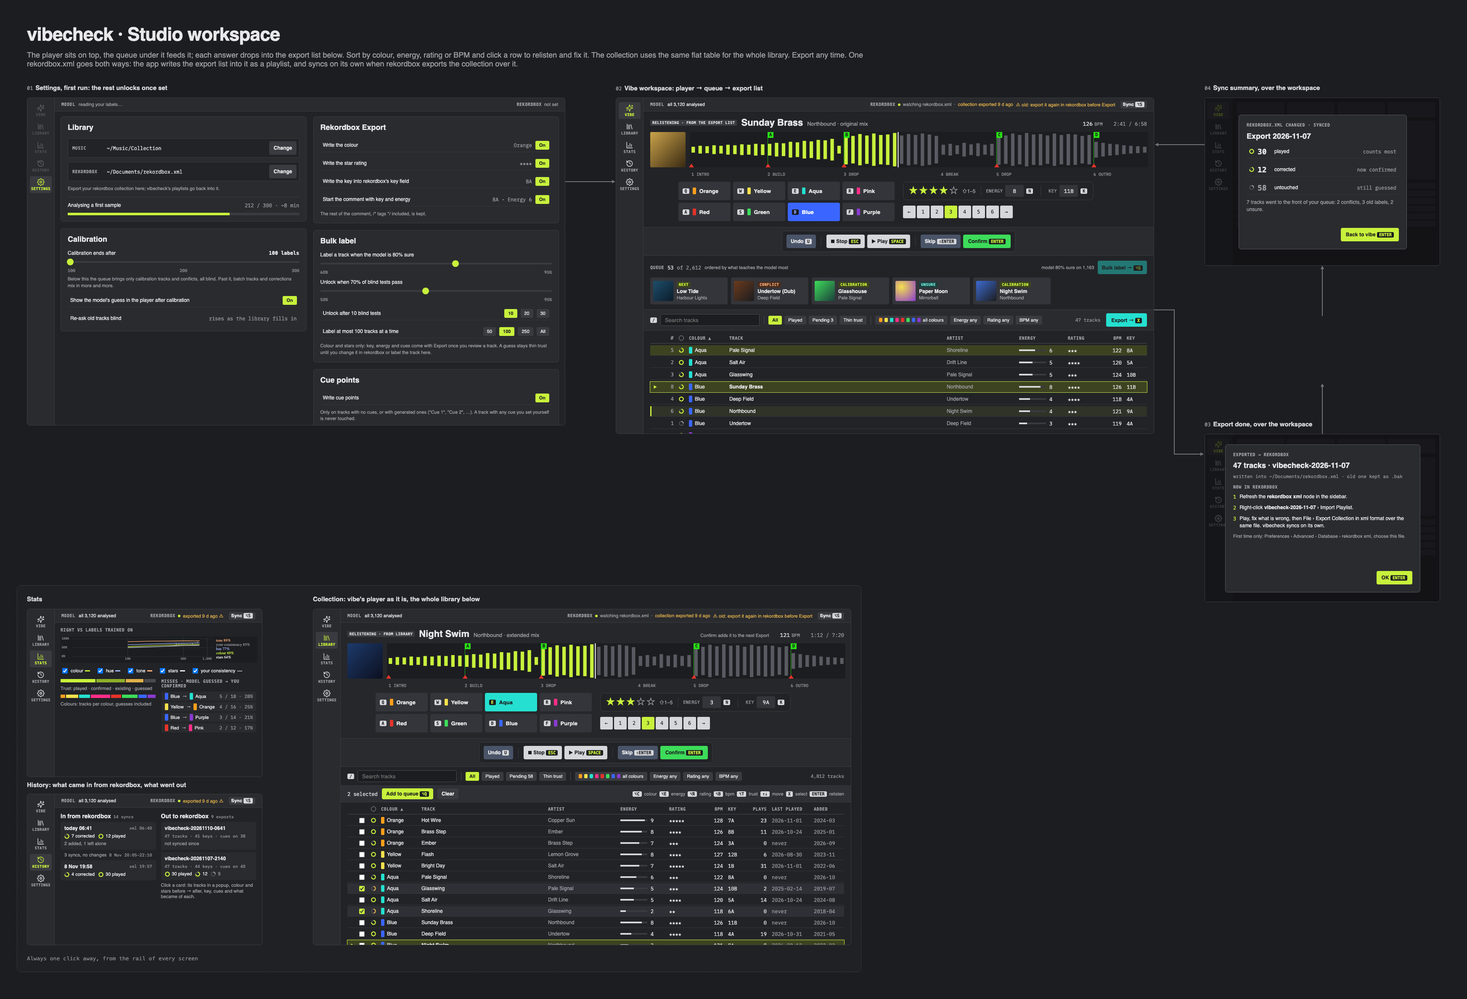
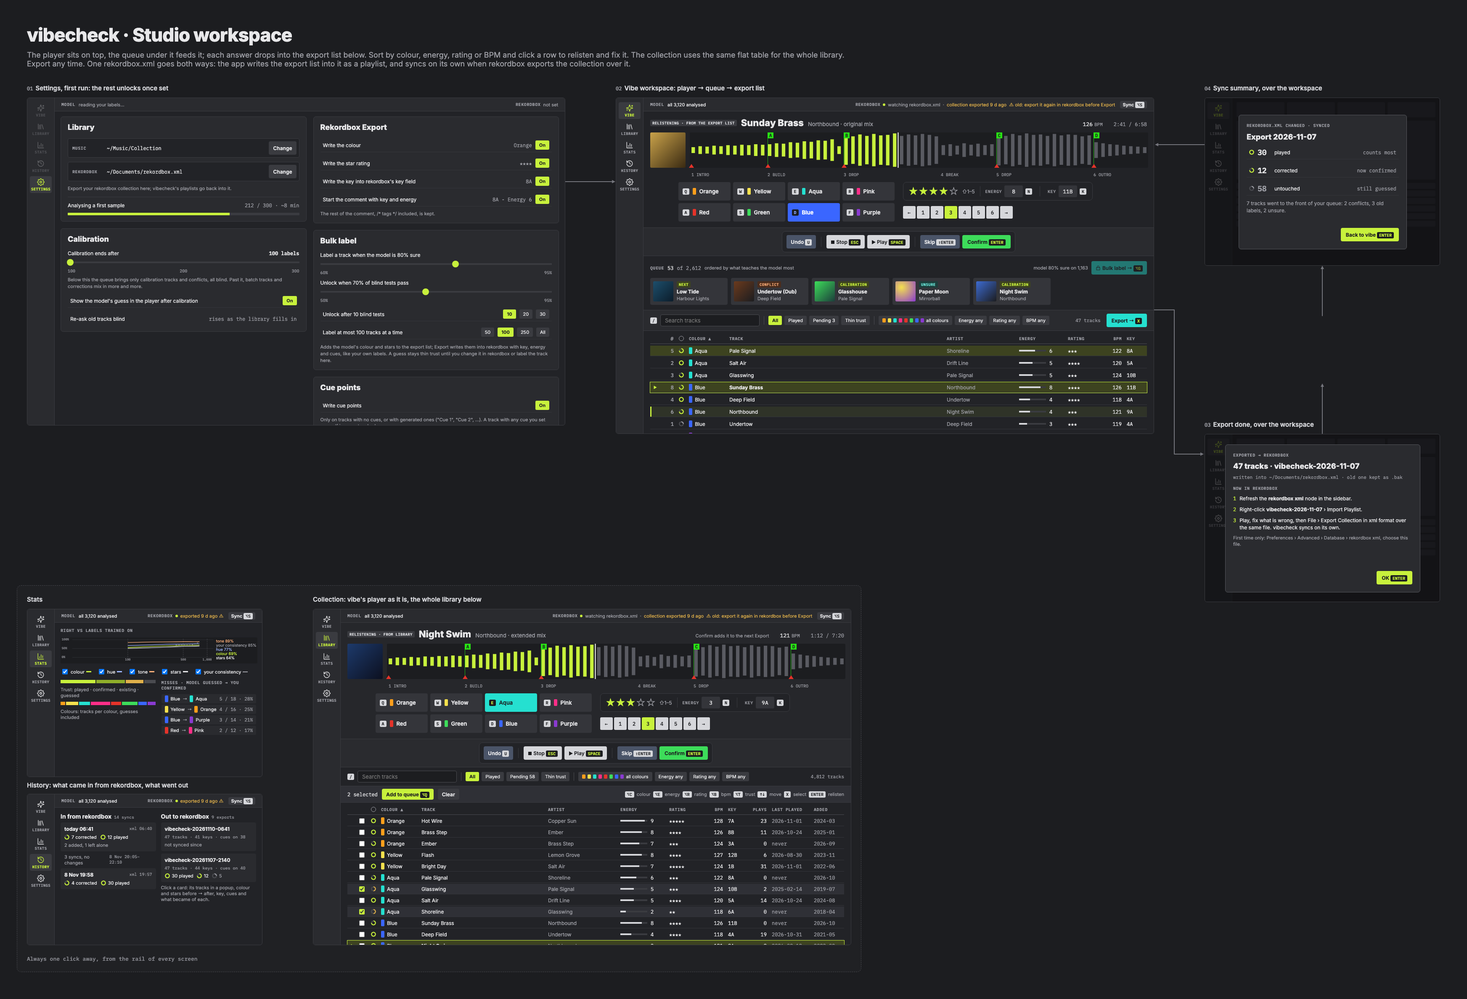
bulk label: adds to the export list instead of writing rekordbox; one unlock rule (must_pass); padlock + checklist dialog
Bulk label logs the model's colour+stars as pending model labels (no
round), so they join the export list and Export writes them with key,
energy, cues. Skips tracks with a label here. Unlock: passed >=
right * max(taken, measured), so 7 of 8 unlocks at 70%/10; conflict
gate uses it too. Button shows lock/unlock icon; dialog is a checklist.

diff --git a/docs/ui/workspace.html b/docs/ui/workspace.html
@@ -148,7 +148,7 @@ a{color:#c8f13c}a:hover{color:#e0ff7a}
 <div style="display: flex; flex-direction: column; gap: 6px"><div style="display: flex; align-items: center; gap: 10px; font-size: 12px"><span>Unlock when 70% of blind tests pass</span></div><div style="position: relative; height: 16px"><div style="position: absolute; left: 0; right: 0; top: 6px; height: 4px; background: #3a3b40"></div><div style="position: absolute; left: 44%; top: 0; width: 16px; height: 16px; border-radius: 50%; background: #c8f13c"></div></div><div class="mono" style="display: flex; justify-content: space-between; font-size: 10px; color: #a0a1a8"><span>50%</span><span>95%</span></div></div>
 <div class="tr" style="height: 32px"><span style="flex: 1">Unlock after 10 blind tests</span><span class="chip chon">10</span><span class="chip">20</span><span class="chip">30</span></div>
 <div class="tr" style="height: 32px"><span style="flex: 1">Label at most 100 tracks at a time</span><span class="chip">50</span><span class="chip chon">100</span><span class="chip">250</span><span class="chip">All</span></div>
-<span style="font-size: 11px; line-height: 16px; color: #a0a1a8">Colour and stars only: key, energy and cues come with Export once you review a track. A guess stays thin trust until you change it in rekordbox or label the track here.</span></div>
+<span style="font-size: 11px; line-height: 16px; color: #a0a1a8">Adds the model's colour and stars to the export list; Export writes them into rekordbox with key, energy and cues, like your own labels. A guess stays thin trust until you change it in rekordbox or label the track here.</span></div>
 
 <div style="background: #2a2b2f; border: 1px solid #3a3b40; border-radius: 6px; padding: 14px 16px; display: flex; flex-direction: column; gap: 10px"><div style="display: flex; flex-direction: column; gap: 2px; margin-bottom: 6px"><span style="font-size: 18px; font-weight: 800">Cue points</span></div>
 <div class="tr" style="height: 32px"><span style="flex: 1">Write cue points</span><span class="chip chon">On</span></div>
@@ -196,7 +196,7 @@ a{color:#c8f13c}a:hover{color:#e0ff7a}
 <div style="display: flex; justify-content: center; padding: 8px 16px; border-bottom: 1px solid #3a3b40; background: #2a2b2f"><div style="display: inline-flex; align-items: center; gap: 6px; padding: 8px 10px; background: #222327; border: 1px solid #3a3b40; border-radius: 8px"><button class="btn" style="background: #4a5468">Undo <span class="kbd">U</span></button><span style="width: 1px; height: 24px; background: #3a3b40; margin: 0 6px"></span><button class="btn" style="background: #d6d7db; color: #1c1d20"><svg width="10" height="10" viewBox="0 0 10 10" style="vertical-align: -1px"><rect x="1" y="1" width="8" height="8" fill="#1c1d20"/></svg> Stop <span class="kbdd">ESC</span></button><button class="btn" style="background: #d6d7db; color: #1c1d20"><svg width="10" height="10" viewBox="0 0 10 10" style="vertical-align: -1px"><path d="M1 0 10 5 1 10z" fill="#1c1d20"/></svg> Play <span class="kbdd">SPACE</span></button><span style="width: 1px; height: 24px; background: #3a3b40; margin: 0 6px"></span><button class="btn" style="background: #4a5468" title="from the queue this slot reads: Requeue">Skip <span class="kbd">⇧ENTER</span></button><button class="btnp" style="background: #3ddc5a">Confirm <span class="kbdd">ENTER</span></button></div></div>
 
 <div style="padding: 12px 16px; border-bottom: 1px solid #3a3b40; display: flex; flex-direction: column; gap: 8px">
-<div style="display: flex; align-items: center; gap: 8px"><span class="lbl">Queue</span><span class="mono" style="font-size: 12px">53</span><span class="mono" style="font-size: 12px; color: #a0a1a8">of 2,612</span><span style="font-size: 11px; color: #a0a1a8">ordered by what teaches the model most</span><span style="margin-left: auto; font-size: 11px; color: #a0a1a8">model 80% sure on 1,163</span><button class="btn" style="background: #25e0d0; color: #1c1d20; opacity: .45">Bulk label → <span class="kbdd">⌥G</span></button></div>
+<div style="display: flex; align-items: center; gap: 8px"><span class="lbl">Queue</span><span class="mono" style="font-size: 12px">53</span><span class="mono" style="font-size: 12px; color: #a0a1a8">of 2,612</span><span style="font-size: 11px; color: #a0a1a8">ordered by what teaches the model most</span><span style="margin-left: auto; font-size: 11px; color: #a0a1a8">model 80% sure on 1,163</span><button class="btn" style="background: #25e0d0; color: #1c1d20; opacity: .45"><svg width="12" height="12" viewBox="0 0 24 24" fill="none" stroke="#1c1d20" stroke-width="2" style="vertical-align: -1px; margin-right: 4px"><rect x="4" y="11" width="16" height="11"/><path d="M7 11V8a5 5 0 0 1 10 0v3"/></svg>Bulk label → <span class="kbdd">⌥G</span></button></div>
 <div style="display: flex; gap: 8px">
 <div class="q qc"><div class="cov" style="background: linear-gradient(135deg, #1d4e6b, #0c1d2b)"></div><div class="qt"><span class="tag t-cal" style="align-self: flex-start">next</span><span class="qn">Low Tide</span><span class="qa">Harbour Lights</span></div></div>
 <div class="q qc"><div class="cov" style="background: linear-gradient(135deg, #6b3a1d, #1c1d20)"></div><div class="qt"><span class="tag t-con" style="align-self: flex-start">conflict</span><span class="qn">Undertow (Dub)</span><span class="qa">Deep Field</span></div></div>

diff --git a/core/src/app.rs b/core/src/app.rs
@@ -479,6 +479,13 @@ pub fn right_at(by: &[(usize, usize)], bar: f64) -> (usize, usize) {
         .fold((0, 0), |a, (_, b)| (a.0 + b.0, a.1 + b.1))
 }
 
+/// Blind tests that must pass: `rate` of the tests taken, counted as at least `need`. Under
+/// `need` taken this is the fixed `rate * need`, so 7 passed of 8 already unlocks at 70% of 10
+/// (the two left cannot pull it under); past it, the plain pass rate.
+pub fn must_pass(asked: usize, rate: f64, need: usize) -> usize {
+    (rate * asked.max(need) as f64 - 1e-9).ceil().max(0.0) as usize
+}
+
 /// `items` in runs of `run` sharing a key: round-robin over the keys in order of first
 /// appearance, each key's items in their given order.
 fn runs<T: Copy, K: PartialEq>(items: &[T], key: impl Fn(&T) -> K, run: usize) -> Vec<T> {
@@ -761,14 +768,15 @@ pub fn queue(root: &Path, xml_path: &Path, cfg: &Config, threshold: usize, n: us
     let preds = m.predict(&pr);
     let star = |p: &Prediction| p.top.get(STARS).and_then(|s| s.0.parse().ok()).unwrap_or(-1);
     let x = xml(root, xml_path)?;
-    // how much of the pool the model is sure about, and how much of that rekordbox has no
-    // colour for: the queue line's "sure on N" and the guesses export's size
+    // how much of the pool the model is sure about, and how much of that has no colour in
+    // rekordbox nor a label here: the queue line's "sure on N" and Bulk label's size
+    let any = store::current(&con, None)?;
     q.sure_hist = vec![0; BANDS];
     q.blank_hist = vec![0; BANDS];
     for (i, p) in preds.iter().enumerate() {
         if let Some(b) = best_colour(p).and_then(|(_, pg)| band(pg)) {
             q.sure_hist[b] += 1;
-            if x.get(&pool[i]).and_then(|t| t.label).and_then(|l| l.colour).is_none() {
+            if !any.contains_key(&pool[i]) && x.get(&pool[i]).and_then(|t| t.label).and_then(|l| l.colour).is_none() {
                 q.blank_hist[b] += 1;
             }
         }
@@ -792,7 +800,7 @@ pub fn queue(root: &Path, xml_path: &Path, cfg: &Config, threshold: usize, n: us
     let (rk, rn) = right_at(&s.by_sure, SURE);
     let measured = cfg.int("guesses", "measured", 10).max(1) as usize;
     let rested = store::recent_cards(&con, "conflict", now() - CONFLICT_REST)?;
-    let mut conflicts: Vec<(f64, String)> = if rn >= measured && rk as f64 >= CONFLICT_RIGHT * rn as f64 {
+    let mut conflicts: Vec<(f64, String)> = if rk >= must_pass(rn, CONFLICT_RIGHT, measured) {
         m.predict(&xr)
             .iter()
             .zip(&l.y)
@@ -1105,16 +1113,15 @@ pub fn export(root: &Path, xml_path: &Path, cfg: &Config) -> Res<Exported> {
     Ok(out)
 }
 
-/// Write the model's guesses into rekordbox: tracks with no colour there that the model is
-/// at least `[guesses] sure` of, colour and stars, as one playlist, written with the same
-/// `[rekordbox]` options as Export.
-/// Nothing else is touched: no key, energy or cues (Export adds those once a track is
-/// reviewed), and no track that has a colour. Refused while calibrating, and until the model
-/// is right at least `[guesses] right` of the time where it is that sure, on at least
-/// `[guesses] measured` blind held-back labels. The guesses are logged as a round, so they
-/// stay guesses (trust 1, not trained on) until you change one in rekordbox, which sync
-/// reads as a correction, or label the track here (docs/queue.md).
-pub fn export_guesses(root: &Path, xml_path: &Path, cfg: &Config, threshold: usize) -> Res<Exported> {
+/// Label in bulk: the model's colour and stars for tracks with no colour in rekordbox and no
+/// label here, the surest first, at most `[guesses] limit` (0 = all), once it is at least
+/// `[guesses] sure` of them. Nothing is written to rekordbox: the labels join the export list
+/// like the queue's, and Export writes them with key, energy and cues. Refused while
+/// calibrating, and until `must_pass` blind tests passed where the model is that sure. Logged
+/// as the model's (source `model`, card `guessed`): trust 1, not trained on, and an untouched
+/// one stays a guess after Export and sync; change it in rekordbox (a correction) or label the
+/// track here to make it yours (docs/queue.md).
+pub fn bulk_label(root: &Path, xml_path: &Path, cfg: &Config, threshold: usize) -> Res<Bulked> {
     let con = store::labels_db(root)?;
     let l = labelled(root, cfg)?;
     let mine: HashSet<String> = store::current(&con, Some("user"))?.into_keys().collect();
@@ -1127,22 +1134,16 @@ pub fn export_guesses(root: &Path, xml_path: &Path, cfg: &Config, threshold: usi
     let right = cfg.float("guesses", "right", 0.7);
     let need = cfg.int("guesses", "measured", 10).max(1) as usize;
     let (k, kn) = right_at(&s.by_sure, bar);
-    if kn < need {
-        return Err(format!("not measured yet: {kn} of {need} blind labels where the model is {:.0}% sure", bar * 100.0).into());
-    }
-    if (k as f64) < right * kn as f64 {
-        return Err(format!(
-            "the model is right {:.0}% of the time where it is {:.0}% sure, below the {:.0}% it needs",
-            100.0 * k as f64 / kn as f64,
-            bar * 100.0,
-            right * 100.0
-        )
-        .into());
+    let want = must_pass(kn, right, need);
+    if k < want {
+        return Err(format!("{k} of {kn} blind tests passed where the model is {:.0}% sure, needs {want}", bar * 100.0).into());
     }
     let x = xml(root, xml_path)?;
+    // a label here already (yours, or a guess waiting for Export) is not guessed over
+    let any = store::current(&con, None)?;
     let blank: Vec<String> = store::live_paths(&con)?
         .into_iter()
-        .filter(|p| !mine.contains(p) && x.get(p).and_then(|t| t.label).and_then(|l| l.colour).is_none())
+        .filter(|p| !any.contains_key(p) && x.get(p).and_then(|t| t.label).and_then(|l| l.colour).is_none())
         .collect();
     let (pool, px) = embed::load(root, &blank)?;
     let pr: Vec<&[f32]> = px.iter().map(|v| v.as_slice()).collect();
@@ -1156,44 +1157,34 @@ pub fn export_guesses(root: &Path, xml_path: &Path, cfg: &Config, threshold: usi
         let stars = pred.top.get(STARS).and_then(|s| s.0.parse::<u8>().ok()).filter(|s| *s > 0);
         sure.push((pg, p.clone(), Label { colour: palette::by_id(g), stars }));
     }
-    // the surest first; `limit` (0 = all) per run, so a wrong model shows in a small batch
+    // the surest first; `limit` per run, so a wrong model shows in a small batch
     sure.sort_by(|a, b| b.0.total_cmp(&a.0).then_with(|| a.1.cmp(&b.1)));
     if limit > 0 {
         sure.truncate(limit);
     }
-    let labels: Vec<(String, Label)> = sure.into_iter().map(|(_, p, l)| (p, l)).collect();
-    let entries: Vec<Entry> =
-        labels.iter().map(|(p, l)| Entry { rel: p.clone(), level: "colour", label: Some(*l), key: None, energy: None, cues: None }).collect();
-    if entries.is_empty() {
-        return Err("nothing to write: no track without a colour in rekordbox that the model is sure of".into());
+    if sure.is_empty() {
+        return Err("nothing to label: no track without a colour that the model is sure of".into());
     }
-    let name = format!("vibecheck-bulk-{}", local(now(), "%Y%m%d-%H%M"));
-    let o = WriteOpts::from_cfg(&name, cfg, false);
-    let st = rekordbox::write(xml_path, xml_path, root, &entries, &o)?;
     let ids = store::track_ids(&con)?;
-    let rid = store::open_round(&con, &name, entries.len(), embed::BACKEND, &embed::fingerprint(), l.x.len())?;
+    let mut out = Bulked::default();
     con.execute_batch("BEGIN")?;
-    for (p, lab) in &labels {
+    for (_, p, lab) in &sure {
         if let Some(t) = ids.get(p) {
-            store::log_label_as(&con, *t, *lab, "model", Some(rid), store::Made { card: Some("guessed"), ..Default::default() })?;
+            store::log_label_as(&con, *t, *lab, "model", None, store::Made { card: Some("guessed"), ..Default::default() })?;
+            out.count += 1;
+            out.rated += usize::from(lab.stars.is_some());
         }
     }
     con.execute_batch("COMMIT")?;
-    let ts = now();
-    let out = Exported {
-        name: name.clone(),
-        count: entries.len(),
-        coloured: st.coloured,
-        rated: st.rated,
-        keyed: 0,
-        commented: 0,
-        cued: 0,
-        not_in_xml: st.not_in_xml,
-        mtime: rekordbox::exported(xml_path).unwrap_or(ts),
-    };
-    let rows: Vec<Kept> = labels.iter().map(|(p, lab)| Kept::label(p, "guessed", None, Some(lab))).collect();
-    log_batch(&con, "out", ts, &name, None, &serde_json::to_value(&out)?, &rows)?;
     Ok(out)
+}
+
+#[derive(Serialize, Default)]
+pub struct Bulked {
+    /// tracks given the model's label, now on the export list
+    pub count: usize,
+    /// of them with stars
+    pub rated: usize,
 }
 
 #[derive(Serialize, Default)]
@@ -1923,6 +1914,13 @@ mod tests {
         assert_eq!(right_at(&by, 0.8), (8, 9));
         assert_eq!(right_at(&by, 0.75), (9, 11));
         assert_eq!(right_at(&[], 0.8), (0, 0));
+        // 70% of at least 10: 7 passed unlocks early, past 10 the rate counts
+        assert_eq!(must_pass(0, 0.7, 10), 7);
+        assert_eq!(must_pass(8, 0.7, 10), 7);
+        assert_eq!(must_pass(10, 0.7, 10), 7);
+        assert_eq!(must_pass(20, 0.7, 10), 14);
+        assert_eq!(must_pass(11, 0.7, 10), 8);
+        assert_eq!(must_pass(8, 0.75, 10), 8);
     }
 
     #[test]

diff --git a/ext/src/lib.rs b/ext/src/lib.rs
@@ -82,7 +82,7 @@ fn run(cmd: &str, a: &Value) -> Res<Value> {
         }
         "unheard" => json!(app::unheard(&root, n(a, "n", 20) as usize)?),
         "export" => json!(app::export(&root, &xml, &cfg()?)?),
-        "export_guesses" => json!(app::export_guesses(&root, &xml, &cfg()?, n(a, "threshold", 100) as usize)?),
+        "bulk_label" => json!(app::bulk_label(&root, &xml, &cfg()?, n(a, "threshold", 100) as usize)?),
         "sync" => json!(app::sync(&root, &xml)?),
         "stats" => json!(app::stats(&root, &cfg()?)?),
         "history" => json!(app::history(&root)?),

diff --git a/docs/ui/decisions.md b/docs/ui/decisions.md
@@ -168,12 +168,20 @@ waveform and charts darker still (`#1c1d20`); dialogs and popups unchanged.
    mood; conflicts are dealt only once the model is right 75% of the time
    where it is sure, and a track asked as a conflict rests 60 days
    (`docs/queue.md`). At the right end of the title line, "model 80% sure on
-   1,163" and a **Bulk label →** button (⌥G), dimmed while locked: the
-   number says how much of the pool the model would label with confidence,
-   and when it stops moving per session, you write the guesses and go play.
-   Its dialog shows the count (tracks with no colour in rekordbox), the
-   measured accuracy where the model is that sure, and the reason when
-   locked; the bar and the guard are under Settings › Bulk label. The
+   1,163" and a **Bulk label →** button (⌥G) with a padlock, closed and
+   dimmed while locked, open once it may write: the number says how much of
+   the pool the model would label with confidence, and when it stops moving
+   per session, you write the guesses and go play. Its dialog shows the
+   count (tracks with no colour in rekordbox, capped by the limit) and a
+   LOCKED / UNLOCKED box with the three conditions as a checklist in the
+   words of Settings › Bulk label, each with where it stands: Calibration
+   done (100 of 100 labels), Blind tests passed (8 of 8 · needs 7).
+   Rewritten 2026-11-22: the earlier prose ("measured on 8 of 10 blind
+   labels where the model is that sure") read like a pass rate next to the
+   70% setting. The rule is one number, `must_pass`: 70% of the tests
+   taken, counted as at least 10, so 7 passed unlocks before the 10th test
+   (the rest cannot pull it under 70% of 10); a separate "taken ≥ 10" check
+   kept 8 of 8 locked for no reason. The
    player starts a track at its second section, past the intro, unless you
    moved first; 1 goes back to the start. A fast-track toggle (the
    model's surest guesses to confirm quickly, behind an accuracy gate) was
@@ -491,7 +499,7 @@ waveform and charts darker still (`#1c1d20`); dialogs and popups unchanged.
   - These apply to every write into rekordbox, Bulk label included.
   - No setting for how old the collection export may be: past 7 days
     (`warn_days`) the status row warns, and it always shows the export's age.
-- **Bulk label** (`[guesses]`): what Bulk label puts into rekordbox. Named
+- **Bulk label** (`[guesses]`): what Bulk label puts on the export list. Named
   for what the user gets (many tracks labelled at once), not the mechanism;
   the earlier "Model guesses" card / "Write guesses" button read as two
   things. No subtitle; none of the cards has one since 2026-11-22 (Calibration
@@ -506,18 +514,22 @@ waveform and charts darker still (`#1c1d20`); dialogs and popups unchanged.
     here, and conflicts are the queue's business.
   - "Label at most 100 tracks at a time": 50 / 100 / 250 / All (`limit`,
     0 = all). The surest first; the dialog then reads "100 of 1,163 tracks,
-    … surest first". A small first batch shows a wrong model in rekordbox
-    before it has coloured a thousand tracks; run it again for the next.
+    … surest first". A small batch is quick to check on the export list;
+    run it again for the next 100 (tracks with a label here are skipped).
   - The number sits in the sentence and moves with the control, no value on
     the right: "right this often where it is that sure" did not tell the user
     what unlocked the button; "Unlock … blind tests" on both gate rows does.
   - No stars toggle (dropped 2026-11-22, with `[guesses] stars`): Bulk label
-    always writes colour and stars, with the Rekordbox Export options; what
-    goes into rekordbox is decided in one card, not per button.
-  - Colour and stars only, tracks with no colour in rekordbox, one playlist;
-    key, energy and cues come with Export once a track is reviewed. Not a
-    hard accuracy gate: the fast track showed a measured gate starves, so the
-    dialog informs and the user decides, within these bounds.
+    always labels colour and stars; what goes into rekordbox is decided in
+    the Rekordbox Export card, not per button.
+  - Bulk label adds to the export list, it does not write rekordbox
+    (changed 2026-11-22): the model's colour and stars for tracks with no
+    colour in rekordbox and no label here, then Export writes them with key,
+    energy and cues like the queue's labels. It first wrote its own playlist
+    straight into the xml, which left the export list unchanged and the user
+    wondering where the 100 tracks went. Not a hard accuracy gate: the fast
+    track showed a measured gate starves, so the dialog informs and the user
+    decides, within these bounds.
 - **Cue points**
   - Write cue points (`[cues] write`). They go only on tracks with no cues or
     with generated ones; a track with any cue you set yourself is never touched.

diff --git a/docs/queue.md b/docs/queue.md
@@ -167,26 +167,29 @@ The end of the loop. You label until "model 80% sure on N" flattens, then
 write the guesses and go play; rekordbox corrections and plays come back
 through sync, the sure set grows, you write again.
 
-- **What**: tracks with no colour in rekordbox that the model is at least
-  `sure` of, colour and stars, as one playlist
-  `vibecheck-bulk-<date>`, at most `limit` (100) per run, surest first.
-  Nothing with a colour is touched: your labels
-  and old ones stay, disagreements remain the queue's job. No key, energy or
-  cues: only 476 of 14,194 tracks have that analysis, the rest would take
-  hours; Export adds them once a track is reviewed.
-- **Guard**, Settings › Bulk label (`[guesses]`): `sure` 0.8, `right` 0.7
-  on at least `measured` (10) blind held-back labels where the model is that
-  sure, and past calibration. Not a hard 90% gate: the fast track showed a
-  measured gate starves on real labels. The dialog shows the count, the
-  measured accuracy and the reason when locked; you decide within the bounds.
+- **What**: tracks with no colour in rekordbox and no label here that the
+  model is at least `sure` of, colour and stars, at most `limit` (100) per
+  run, surest first, added to the export list. Nothing is written to
+  rekordbox until Export, which writes them with key, energy and cues like
+  the queue's labels. Nothing with a colour is touched: your labels and old
+  ones stay, disagreements remain the queue's job. (First built as a direct
+  write of its own playlist into the xml; changed 2026-11-22, the export list
+  did not show it.)
+- **Guard**, Settings › Bulk label (`[guesses]`): past calibration, and
+  `must_pass` blind tests (held-back labels where the model is ≥ `sure`)
+  passed: `right` (0.7) of those taken, counted as at least `measured` (10).
+  So 7 passed unlocks before the 10th test; past 10 the pass rate counts.
+  Conflict cards use the same rule at 0.75. Not a hard 90% gate: the fast
+  track showed a measured gate starves on real labels. The dialog shows the
+  count and a checklist (calibration, blind tests passed · needs N).
 - **Meter**: the queue line's "model 80% sure on N" (whole pool) and the
   dialog's count (blank in rekordbox), both from per-band histograms the
   queue returns, so the Settings bar moves them without a round trip.
-- **Trust**: logged as a round, source `model`, card `guessed`: not trained
-  on, trust ring 1. `batch()` and `unsent` skip round labels, so Export never
-  resends them; sync leaves an untouched round track alone (it is never in
-  the last export's scope) and reads a changed one as `corrected` (0.7).
-  History shows the batch; `discard` undoes it.
+- **Trust**: source `model`, card `guessed`, no round: not trained on,
+  trust ring 1. They sit in `batch()` / `unsent` like a dropped track's
+  guess, so Export writes them; after it, sync reads an untouched one as
+  still a guess (only rounds are confirmed by being left alone) and a
+  changed one as `corrected` (0.7).
 - **Not done**: play tracking for guesses. Sync follows play counts only for
   the last export, so a played guess stays a guess. A `plays` column on
   `batch_tracks` and a sync over all out batches would fix that for every
@@ -194,7 +197,7 @@ through sync, the sure set grows, you write again.
 
 ## Done (2026-11-12)
 
-In `core/src/app.rs` (`queue()`, `export_guesses()`), `ext`, and the app:
+In `core/src/app.rs` (`queue()`, `bulk_label()`), `ext`, and the app:
 
 1. Conflicts: bar 0.8 (`SURE`); dealt only when `right_at(by_sure, SURE)` ≥
    `CONFLICT_RIGHT` (0.75) on ≥ `[guesses] measured` labels; a track asked as
@@ -208,6 +211,6 @@ In `core/src/app.rs` (`queue()`, `export_guesses()`), `ext`, and the app:
 5. `Score::by_sure` (right, asked per 5% band from 0.5; model cache key m6);
    the queue returns `sure_hist`, `blank_hist`, `right_hist`; the queue line
    shows "model 80% sure on N" and the Bulk label button (⌥G).
-6. Bulk label (was Write guesses): `export_guesses(root, xml, cfg, threshold)`, the dialog in
+6. Bulk label (was Write guesses): `bulk_label(root, xml, cfg, threshold)`, the dialog in
    `main.gd` (count, accuracy, lock reason; Cancel / Write, ENTER writes),
    the Settings card, `[guesses]` defaults in `default_config.toml`.
